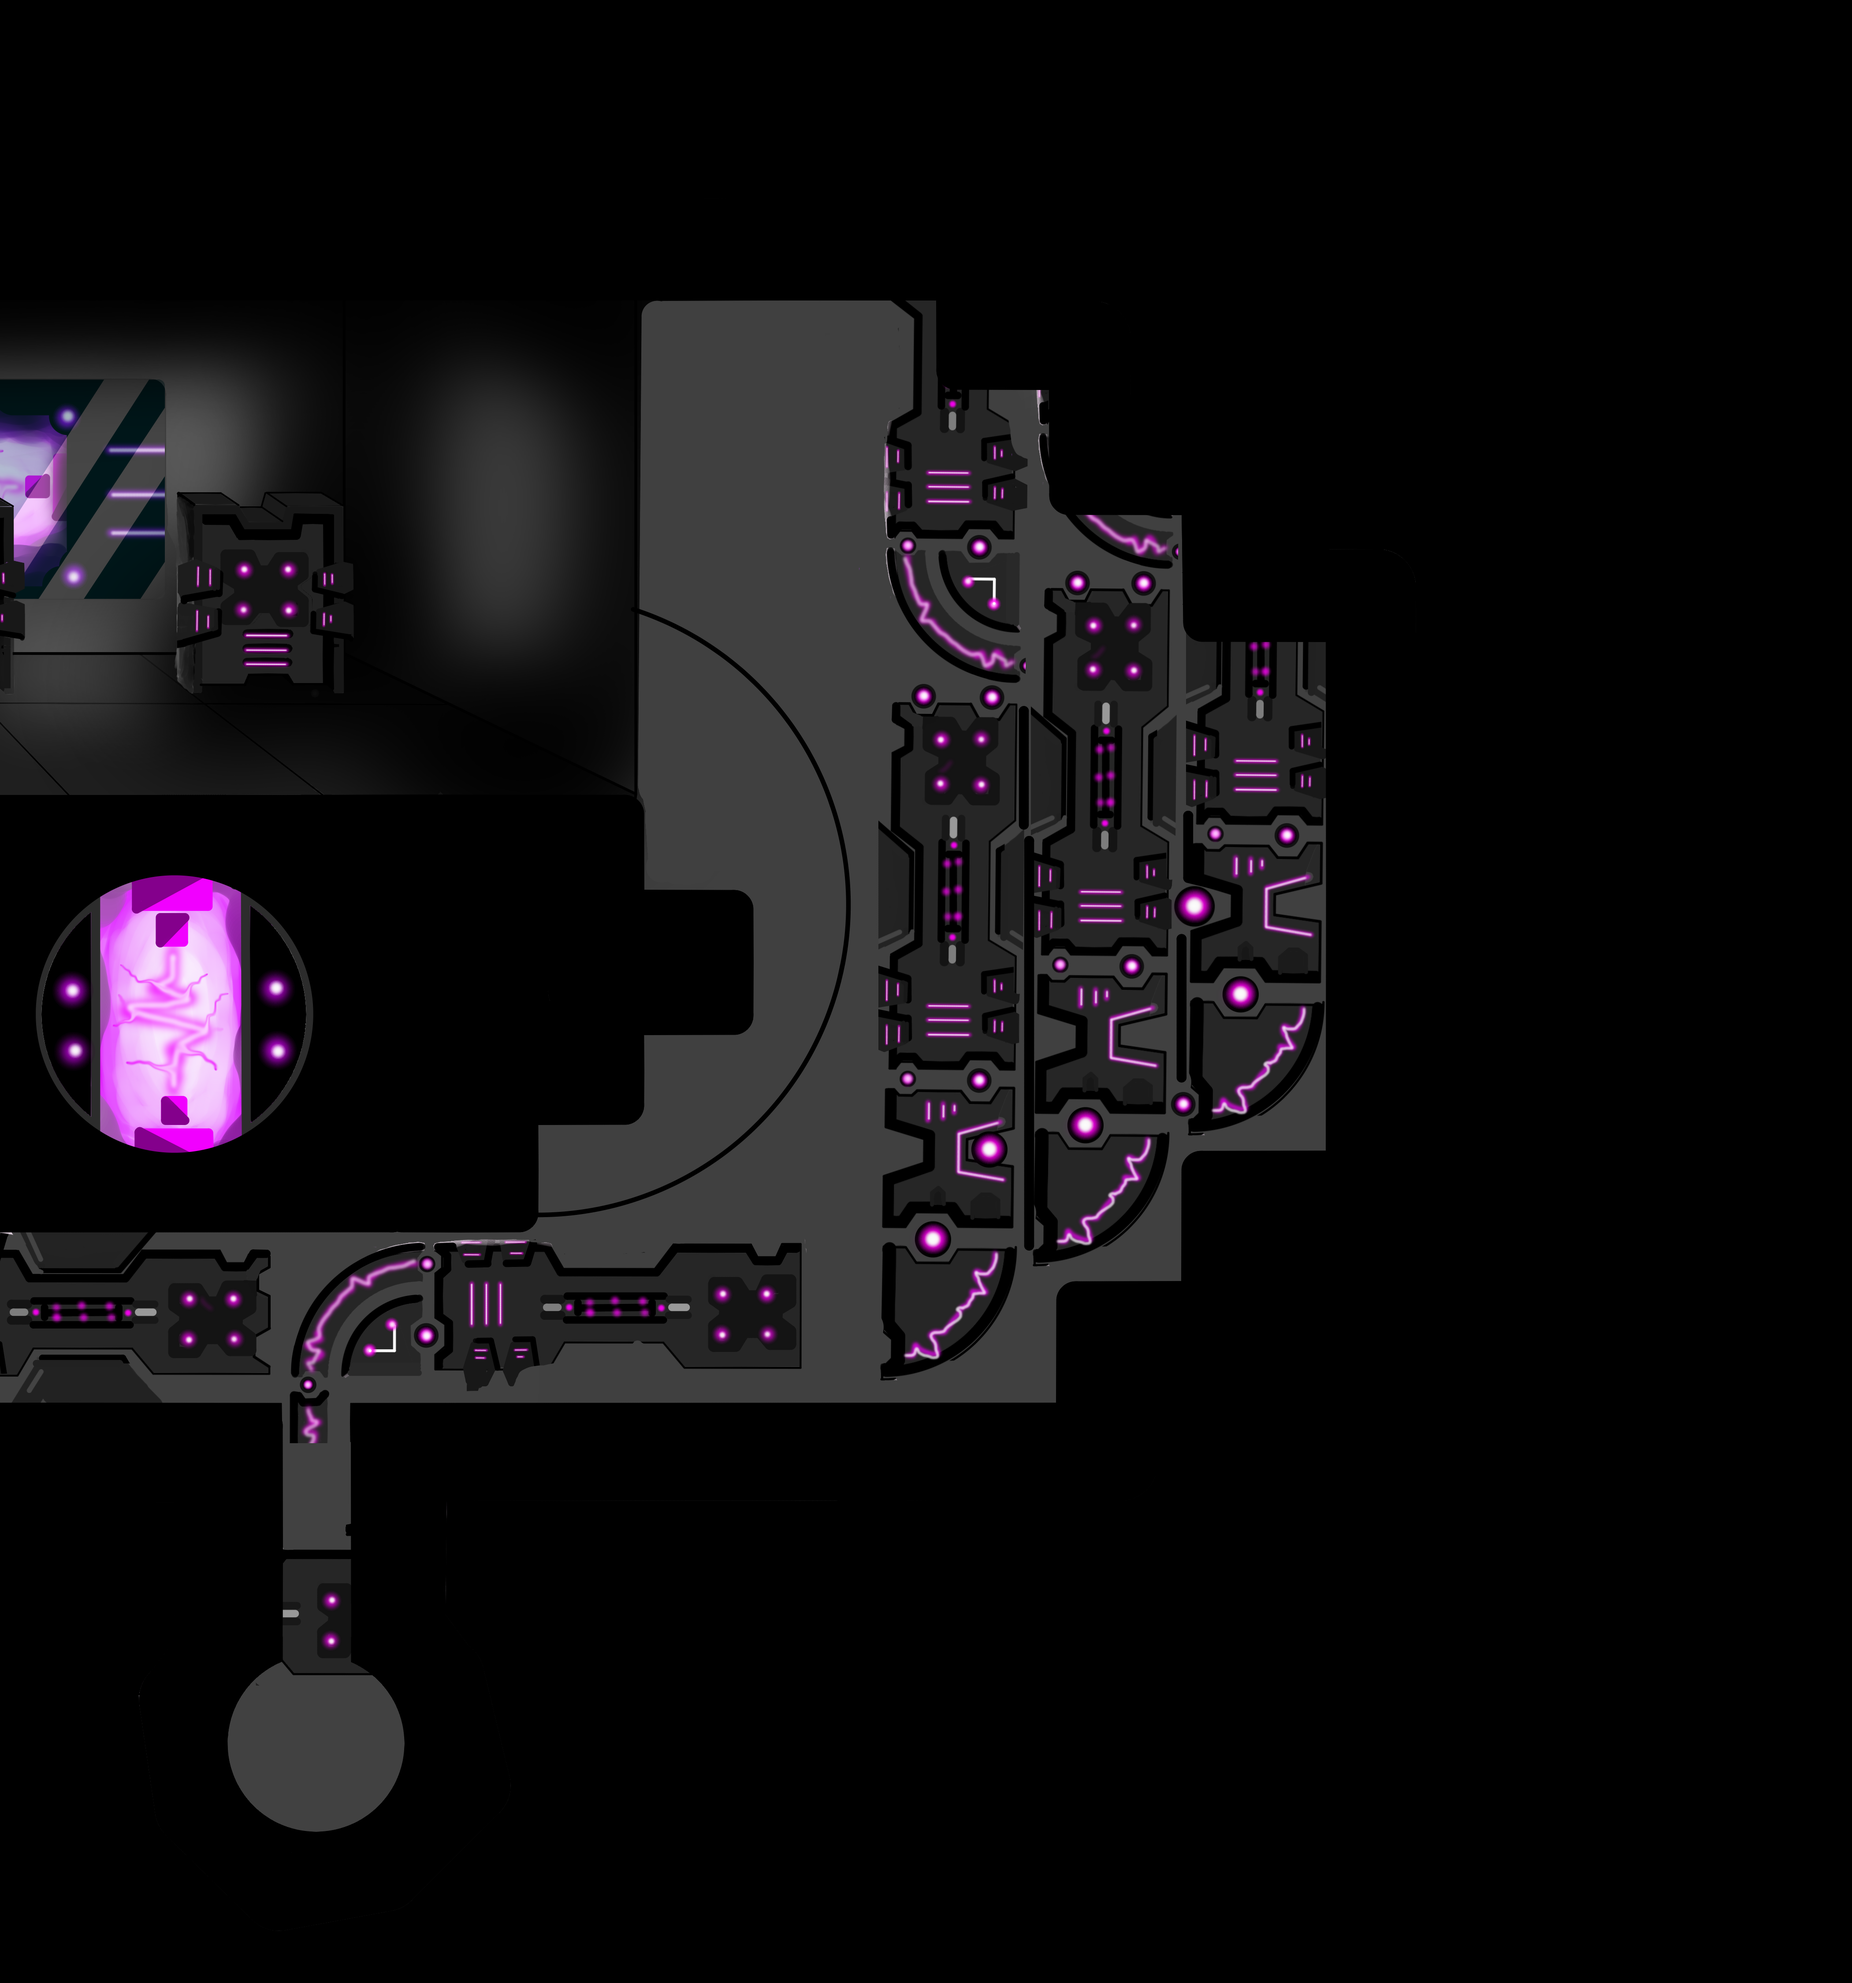
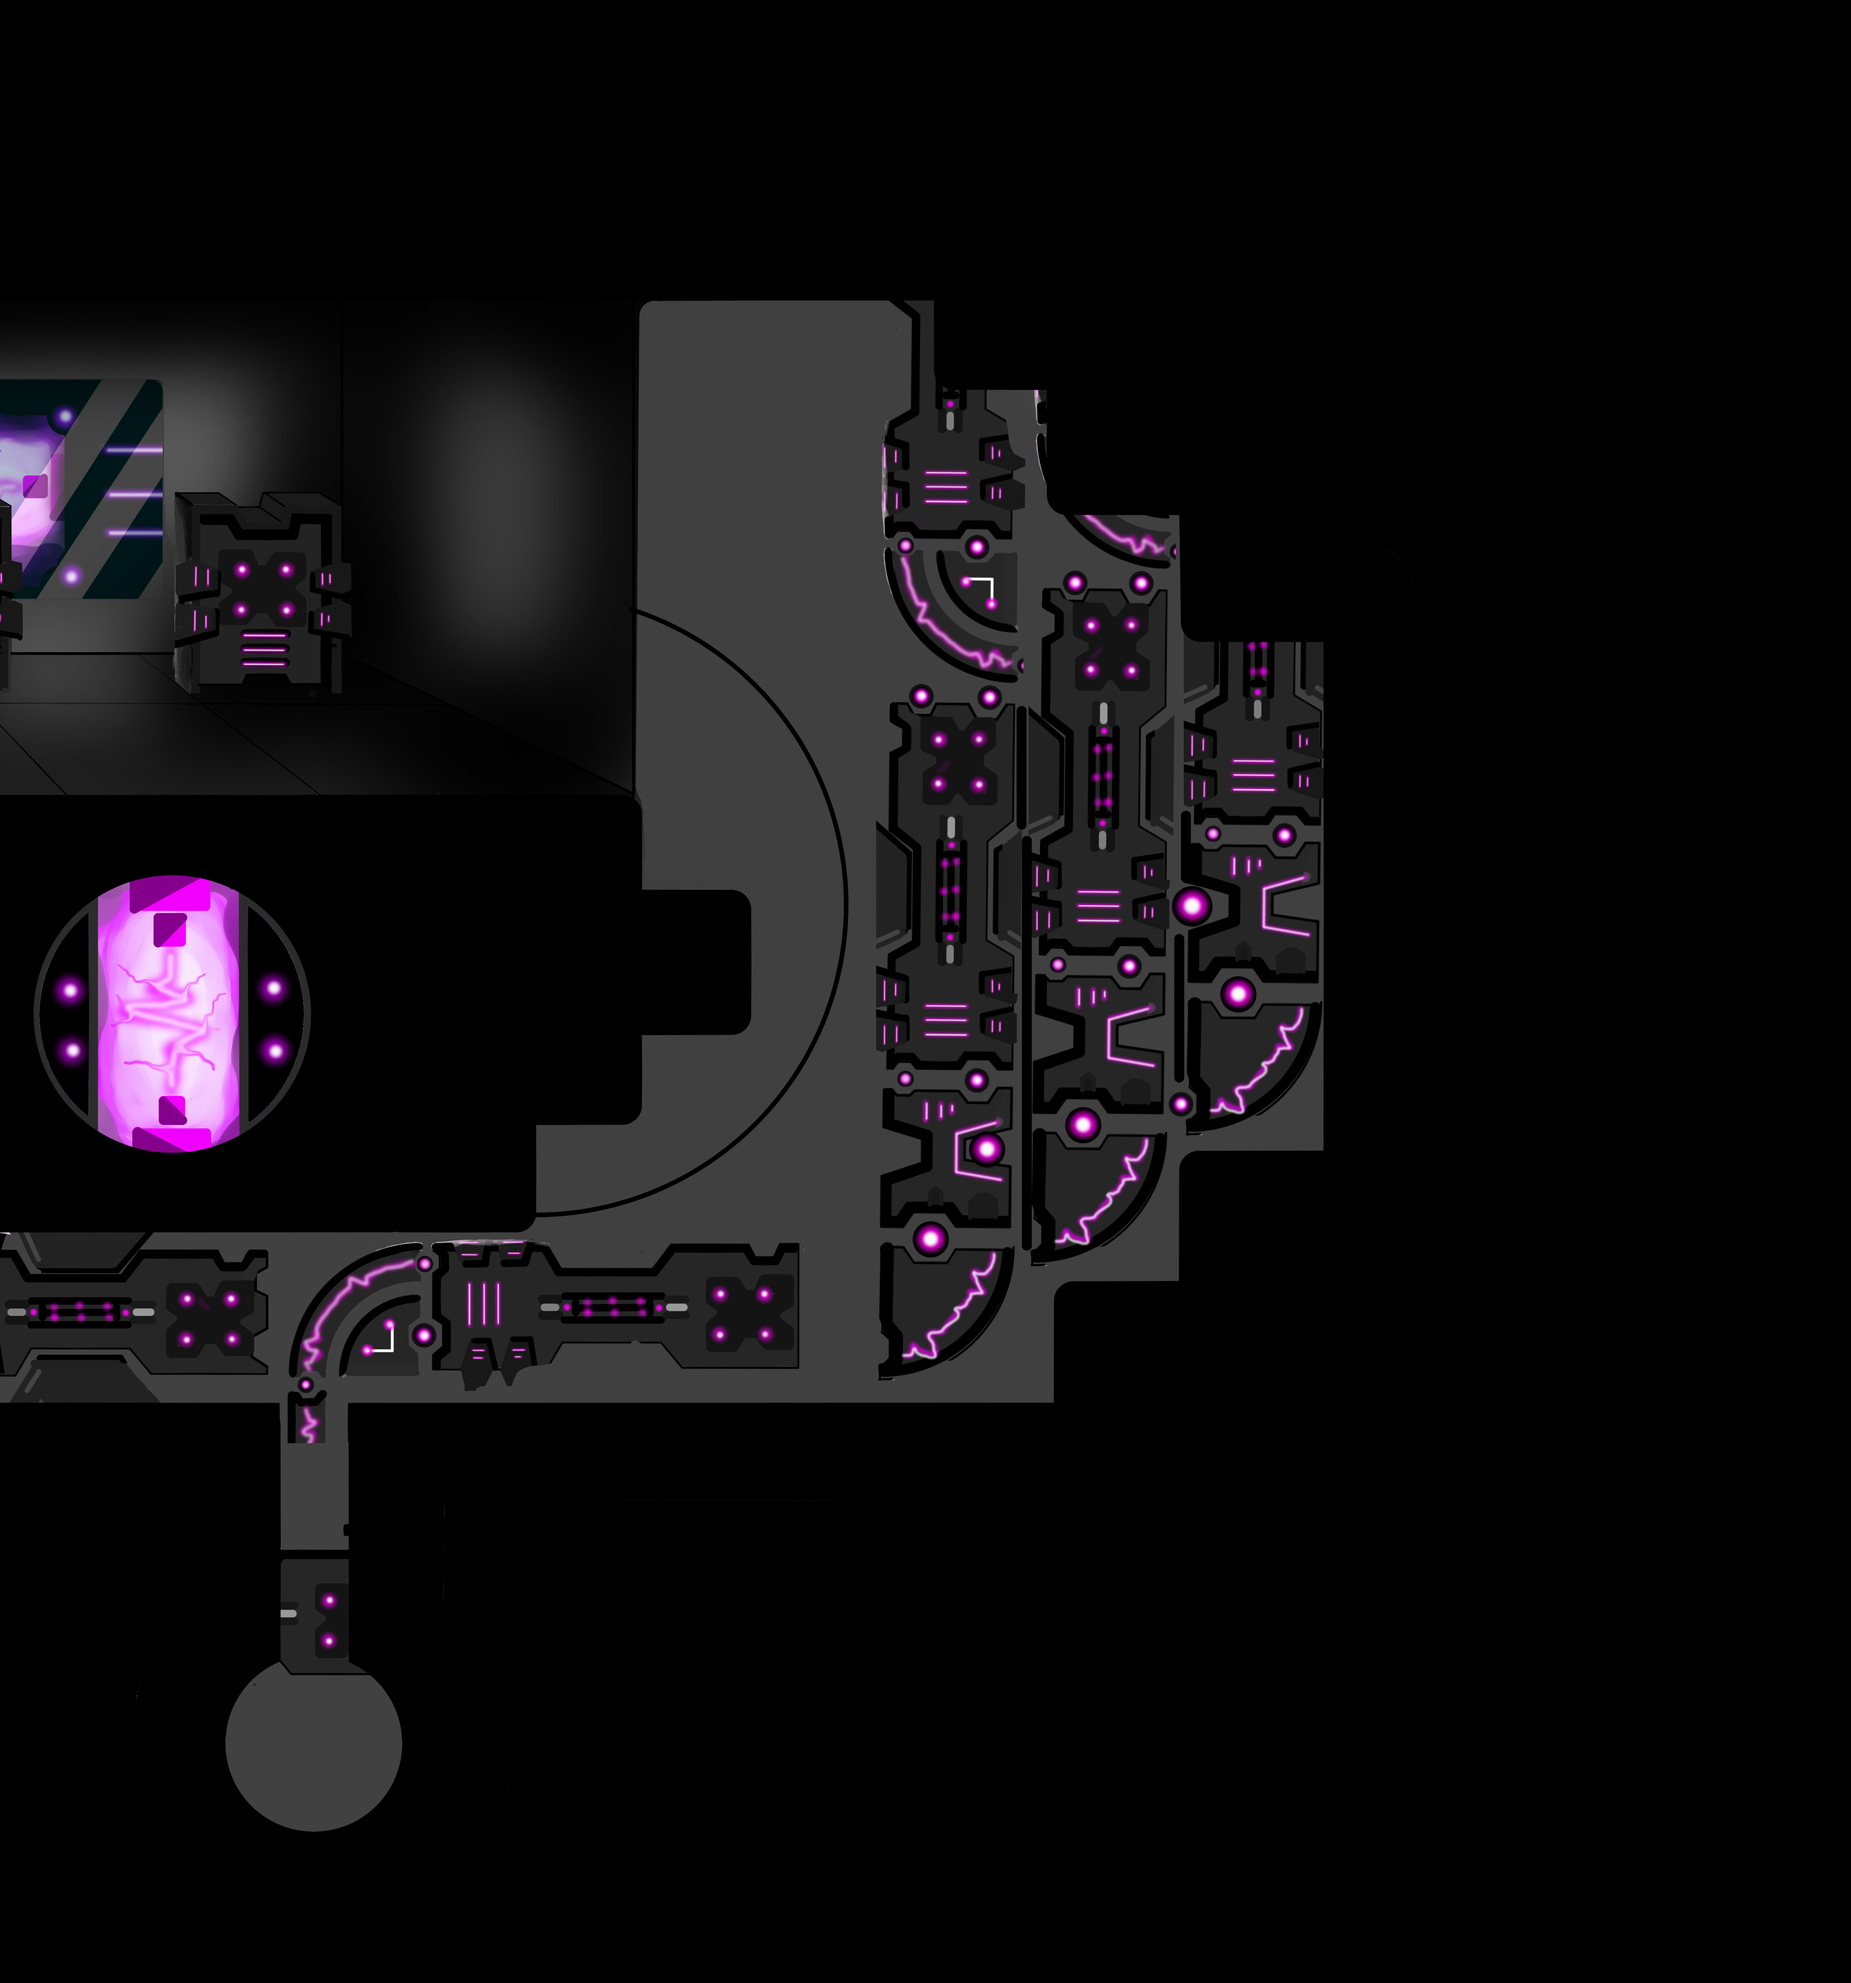
Spiders

diff --git a/core/src/main/java/com/missionbit/game/States/LevelTwo.java b/core/src/main/java/com/missionbit/game/States/LevelTwo.java
@@ -151,11 +151,15 @@ public class LevelTwo extends Levelmaker {
             {3267, 1699, 2149, 390},
             {5394, 1951, 264, 345},
             {5650, 2152, 252, 326},
+            {2470, 3211, 168, 19},
+            {2759, 3347, 954, 25},
             {950, 2464, 4707, 230},
     };
 
 
     private static final float[][] spike_locs = new float[][]{
+            {1680, 2755, 1726, 2750, 1765, 2758, 1803, 2750, 1840, 2750, 1868, 2759, 1894, 2752, 1898, 2746, 1914, 2749, 1914, 2689, 1677, 2696, 1678, 2757, },
+            {2322, 2705, 2402, 2777, 2429, 2860, 2578, 2904, 2603, 2898, 2500, 2741, 2505, 2693, 2326, 2704, },
             {1972, 1362, 1993, 1410, 2042, 1359, 2087, 1434, 2128, 1352, 2148, 1396, 2183, 1360, 2223, 1412, 2267, 1358, 2284, 1382, 2313, 1358, 2355, 1412, 2371, 1378, 2386, 1395, 2399, 1379, 2435, 1434, 2487, 1359, 2508, 1390, 2534, 1364, 2537, 1403, 2585, 1373, 2631, 1367, 2637, 1359, 1973, 1362,},
             {1782, 1571, 1793, 1554, 2330, 1561, 2330, 1576,},
             {1878, 1552, 1892, 1532, 1905, 1556, 1876, 1553, 1885, 1544,},
@@ -231,7 +235,7 @@ public class LevelTwo extends Levelmaker {
         LVLDrawer = new Sprite(new Texture(Gdx.files.internal("images/map/Level 2.png")));
         LVLDrawer.setX(4200);
 
-        LVLDrawer2 = new Sprite(new Texture(Gdx.files.internal("images/map/Level2otherhalf.png")));
+        LVLDrawer2 = new Sprite(new Texture(Gdx.files.internal("images/map/Level 2otherhalf.png")));
 
 
         // Initialize platforms
@@ -247,7 +251,7 @@ public class LevelTwo extends Levelmaker {
 
 
         // velocity = new Vector2(0, 0);
-        Spider = new Enemies(960, 687, 910, 1816);
+        Spider = new Enemies(2770, 3350, 2770, 1816);
     }
     @Override
 
